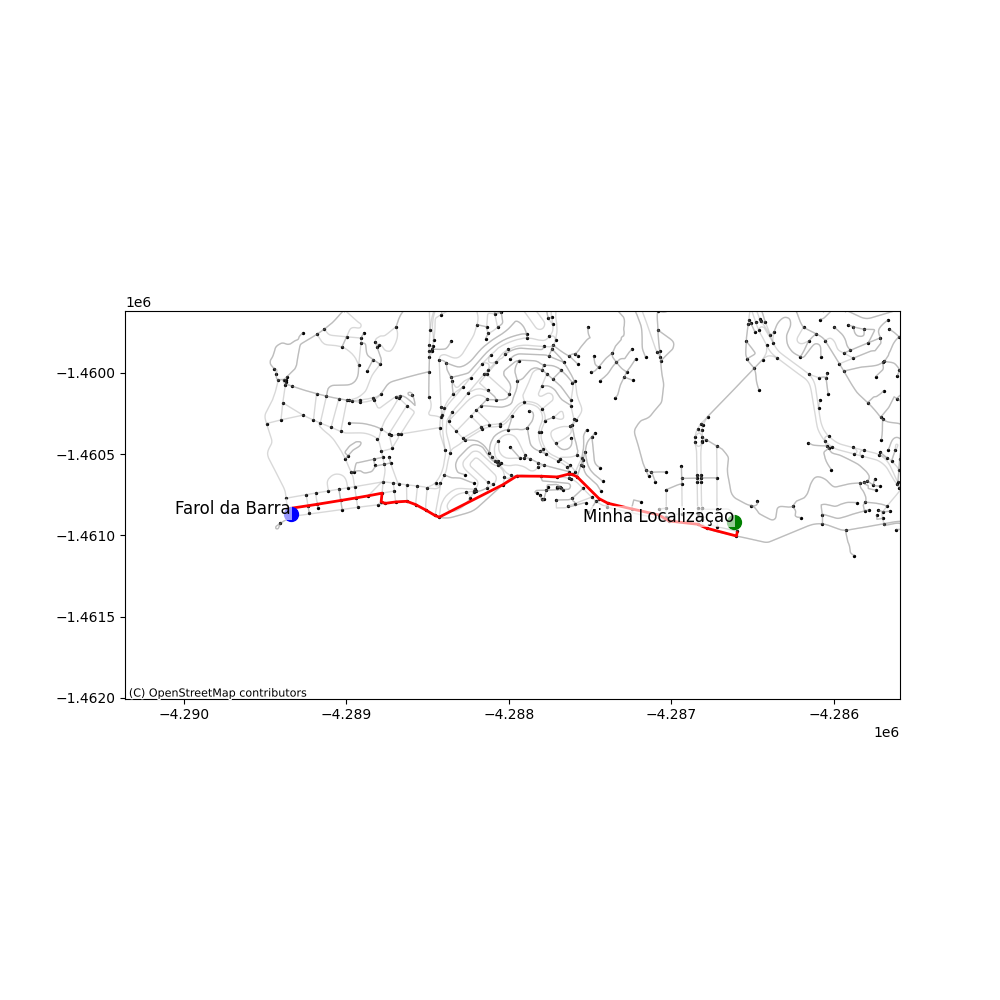
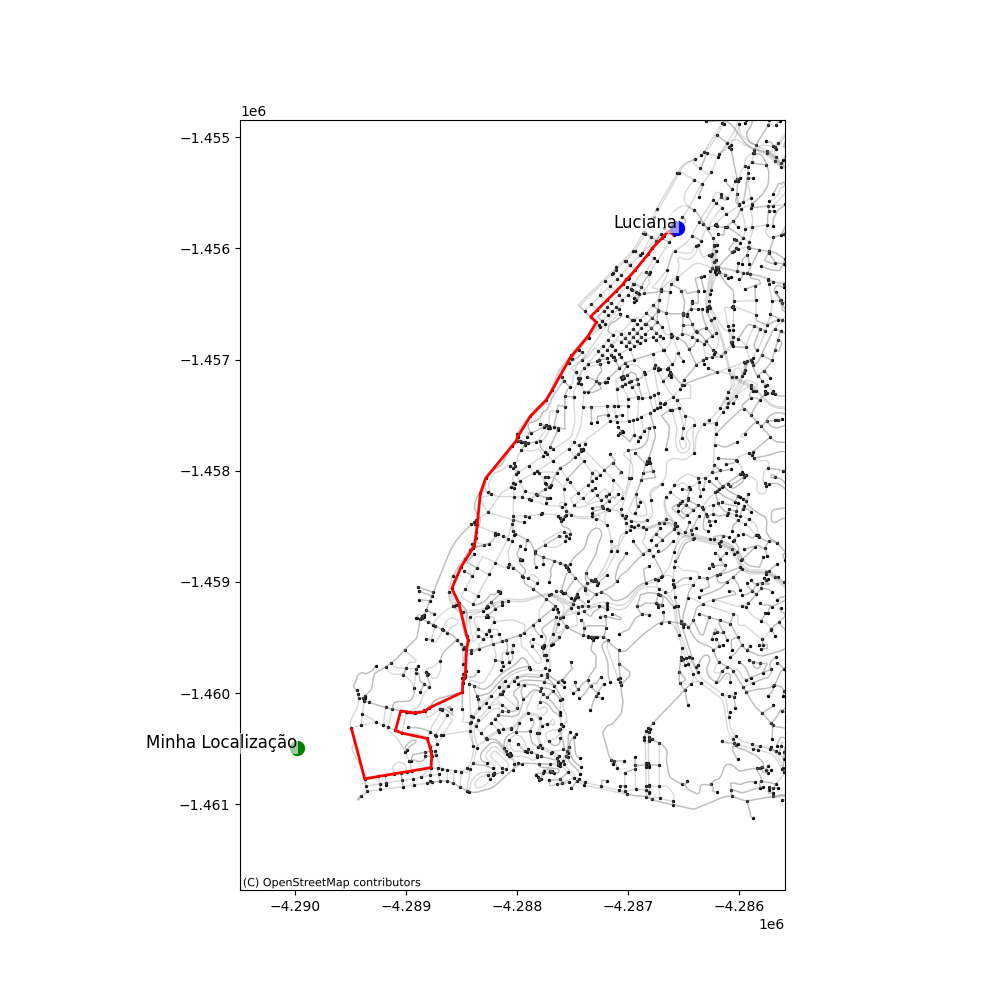
finalizado front utf-8 para ler a base de dados e adionando novos lugares

diff --git a/static/route.html b/static/route.html
@@ -25,7 +25,7 @@
             <meta name="viewport" content="width=device-width,
                 initial-scale=1.0, maximum-scale=1.0, user-scalable=no" />
             <style>
-                #map_7b546648fed7d8b07d06592694b63f66 {
+                #map_785d14b7ab09956c32b021b860f2db24 {
                     position: relative;
                     width: 100.0%;
                     height: 100.0%;
@@ -39,16 +39,16 @@
 <body>
     
     
-            <div class="folium-map" id="map_7b546648fed7d8b07d06592694b63f66" ></div>
+            <div class="folium-map" id="map_785d14b7ab09956c32b021b860f2db24" ></div>
         
 </body>
 <script>
     
     
-            var map_7b546648fed7d8b07d06592694b63f66 = L.map(
-                "map_7b546648fed7d8b07d06592694b63f66",
+            var map_785d14b7ab09956c32b021b860f2db24 = L.map(
+                "map_785d14b7ab09956c32b021b860f2db24",
                 {
-                    center: [-13.0103526, -38.5073181],
+                    center: [-13.0066948, -38.5375255],
                     crs: L.CRS.EPSG3857,
                     zoom: 12,
                     zoomControl: true,
@@ -60,50 +60,50 @@
 
         
     
-            var tile_layer_f1c123ab9e49d13abd9087b36a7ef3e3 = L.tileLayer(
+            var tile_layer_8d860dba2d3259593d63ff4aba459e45 = L.tileLayer(
                 "https://tile.openstreetmap.org/{z}/{x}/{y}.png",
                 {"attribution": "\u0026copy; \u003ca href=\"https://www.openstreetmap.org/copyright\"\u003eOpenStreetMap\u003c/a\u003e contributors", "detectRetina": false, "maxNativeZoom": 19, "maxZoom": 19, "minZoom": 0, "noWrap": false, "opacity": 1, "subdomains": "abc", "tms": false}
             );
         
     
-            tile_layer_f1c123ab9e49d13abd9087b36a7ef3e3.addTo(map_7b546648fed7d8b07d06592694b63f66);
+            tile_layer_8d860dba2d3259593d63ff4aba459e45.addTo(map_785d14b7ab09956c32b021b860f2db24);
         
     
 
-        function geo_json_5b722184074617de9b78103dd1df0f52_onEachFeature(feature, layer) {
+        function geo_json_cc769aa06131c84fc13a0934c8783cfa_onEachFeature(feature, layer) {
             layer.on({
             });
         };
-        var geo_json_5b722184074617de9b78103dd1df0f52 = L.geoJson(null, {
-                onEachFeature: geo_json_5b722184074617de9b78103dd1df0f52_onEachFeature,
+        var geo_json_cc769aa06131c84fc13a0934c8783cfa = L.geoJson(null, {
+                onEachFeature: geo_json_cc769aa06131c84fc13a0934c8783cfa_onEachFeature,
             
         });
 
-        function geo_json_5b722184074617de9b78103dd1df0f52_add (data) {
-            geo_json_5b722184074617de9b78103dd1df0f52
+        function geo_json_cc769aa06131c84fc13a0934c8783cfa_add (data) {
+            geo_json_cc769aa06131c84fc13a0934c8783cfa
                 .addData(data);
         }
-            geo_json_5b722184074617de9b78103dd1df0f52_add({"bbox": [-38.5319873, -13.0111329, -38.5071155, -13.0077944], "features": [{"bbox": [-38.5319873, -13.0111329, -38.5071155, -13.0077944], "geometry": {"coordinates": [[-38.5071155, -13.0108806], [-38.5071757, -13.0111329], [-38.5088224, -13.0107124], [-38.5093208, -13.0105001], [-38.5108951, -13.0103252], [-38.5114755, -13.0099949], [-38.5129722, -13.009671], [-38.5142764, -13.0093706], [-38.5147689, -13.0091195], [-38.5159785, -13.0079463], [-38.5162484, -13.0078193], [-38.5164212, -13.0077944], [-38.5170727, -13.0079537], [-38.517958, -13.0079148], [-38.5193191, -13.0079066], [-38.5200815, -13.0083704], [-38.5236038, -13.0101184], [-38.5238352, -13.0100278], [-38.524349, -13.0097336], [-38.5249102, -13.0094395], [-38.5253935, -13.0092645], [-38.5260071, -13.0092997], [-38.5266009, -13.009376], [-38.5268097, -13.0092775], [-38.5267618, -13.0088267], [-38.5275274, -13.0089693], [-38.5281845, -13.0090794], [-38.5290477, -13.0092193], [-38.5303389, -13.0094238], [-38.5308582, -13.0095025], [-38.5319873, -13.0096682], [-38.5318589, -13.0100609]], "type": "LineString"}, "id": "0", "properties": {}, "type": "Feature"}], "type": "FeatureCollection"});
-        geo_json_5b722184074617de9b78103dd1df0f52.setStyle(function(feature) {return feature.properties.style;});
+            geo_json_cc769aa06131c84fc13a0934c8783cfa_add({"bbox": [-38.5331485, -13.0090985, -38.5070875, -12.9659644], "features": [{"bbox": [-38.5331485, -13.0090985, -38.5070875, -12.9659644], "geometry": {"coordinates": [[-38.5331485, -13.0050778], [-38.5320641, -13.0090985], [-38.5309564, -13.0089084], [-38.5304374, -13.0088215], [-38.5297278, -13.0087061], [-38.5291466, -13.008615], [-38.5286605, -13.0085386], [-38.5282802, -13.0084772], [-38.5266986, -13.0082146], [-38.5266448, -13.0072705], [-38.5267238, -13.0068919], [-38.5267939, -13.006568], [-38.5270207, -13.0059193], [-38.5290433, -13.0054994], [-38.5295805, -13.0052823], [-38.5291487, -13.0037405], [-38.5287042, -13.0038162], [-38.5286099, -13.0038299], [-38.5284161, -13.0038599], [-38.5280064, -13.0039202], [-38.5272135, -13.0037875], [-38.5268451, -13.0035033], [-38.5241635, -13.0022812], [-38.5241428, -13.0015161], [-38.5240176, -13.0011871], [-38.523993, -13.0010715], [-38.5239541, -13.0008939], [-38.523913, -13.0005949], [-38.523842, -12.9989338], [-38.5236875, -12.998178], [-38.5238318, -12.9978098], [-38.5244712, -12.9952196], [-38.525016, -12.994098], [-38.5242668, -12.9923988], [-38.5233179, -12.9909284], [-38.5232075, -12.9907689], [-38.5231009, -12.9901332], [-38.5230298, -12.9896229], [-38.5227133, -12.9866108], [-38.5222882, -12.985432], [-38.5201254, -12.9828478], [-38.5197872, -12.9824607], [-38.519706, -12.9821721], [-38.5186741, -12.9805459], [-38.517394, -12.9792638], [-38.5169062, -12.9784575], [-38.5154493, -12.97593], [-38.5140049, -12.9742364], [-38.5133463, -12.9731393], [-38.5138026, -12.9727038], [-38.5132677, -12.9721752], [-38.5124886, -12.9714122], [-38.5117661, -12.970716], [-38.5111947, -12.9701487], [-38.5109161, -12.9697667], [-38.5107395, -12.9696209], [-38.510219, -12.9690423], [-38.5091578, -12.9677865], [-38.5088052, -12.9672905], [-38.508041, -12.9665237], [-38.5079102, -12.9663761], [-38.5075092, -12.9659644], [-38.5070875, -12.9662519]], "type": "LineString"}, "id": "0", "properties": {}, "type": "Feature"}], "type": "FeatureCollection"});
+        geo_json_cc769aa06131c84fc13a0934c8783cfa.setStyle(function(feature) {return feature.properties.style;});
 
         
     
-            geo_json_5b722184074617de9b78103dd1df0f52.addTo(map_7b546648fed7d8b07d06592694b63f66);
+            geo_json_cc769aa06131c84fc13a0934c8783cfa.addTo(map_785d14b7ab09956c32b021b860f2db24);
         
     
-            var marker_3e0d5aeb487a01c93f702c23aded15c2 = L.marker(
-                [-13.0103526, -38.5073181],
+            var marker_689bb8f4c4627fd2a39866792d421944 = L.marker(
+                [-13.0066948, -38.5375255],
                 {}
-            ).addTo(map_7b546648fed7d8b07d06592694b63f66);
+            ).addTo(map_785d14b7ab09956c32b021b860f2db24);
         
     
-            var icon_74da9d5eeadb6ff7fdf495b2d0a8a065 = L.AwesomeMarkers.icon(
+            var icon_8957aabc7ab38c805f7e98acfcf9a19b = L.AwesomeMarkers.icon(
                 {"extraClasses": "fa-rotate-0", "icon": "info-sign", "iconColor": "white", "markerColor": "green", "prefix": "glyphicon"}
             );
-            marker_3e0d5aeb487a01c93f702c23aded15c2.setIcon(icon_74da9d5eeadb6ff7fdf495b2d0a8a065);
+            marker_689bb8f4c4627fd2a39866792d421944.setIcon(icon_8957aabc7ab38c805f7e98acfcf9a19b);
         
     
-            marker_3e0d5aeb487a01c93f702c23aded15c2.bindTooltip(
+            marker_689bb8f4c4627fd2a39866792d421944.bindTooltip(
                 `<div>
                      Minha Localização
                  </div>`,
@@ -111,21 +111,21 @@
             );
         
     
-            var marker_6457dd87b8522166bca529fa22787b61 = L.marker(
-                [-13.009963388607554, -38.531819032750604],
+            var marker_aa24316f755f4576255ea95255393138 = L.marker(
+                [-12.9657, -38.5068],
                 {}
-            ).addTo(map_7b546648fed7d8b07d06592694b63f66);
+            ).addTo(map_785d14b7ab09956c32b021b860f2db24);
         
     
-            var icon_46a7b293eb82b65109d8941ad1a45f9d = L.AwesomeMarkers.icon(
+            var icon_98ef673c00cc934091514a01aee878ee = L.AwesomeMarkers.icon(
                 {"extraClasses": "fa-rotate-0", "icon": "info-sign", "iconColor": "white", "markerColor": "blue", "prefix": "glyphicon"}
             );
-            marker_6457dd87b8522166bca529fa22787b61.setIcon(icon_46a7b293eb82b65109d8941ad1a45f9d);
+            marker_aa24316f755f4576255ea95255393138.setIcon(icon_98ef673c00cc934091514a01aee878ee);
         
     
-            marker_6457dd87b8522166bca529fa22787b61.bindTooltip(
+            marker_aa24316f755f4576255ea95255393138.bindTooltip(
                 `<div>
-                     Farol da Barra
+                     Luciana
                  </div>`,
                 {"sticky": true}
             );

diff --git a/templates/index.html b/templates/index.html
@@ -1,13 +1,127 @@
 <!DOCTYPE html>
-<html lang="en">
+<html lang="pt-BR">
   <head>
     <meta charset="UTF-8" />
     <meta name="viewport" content="width=device-width, initial-scale=1.0" />
     <title>Shortest Path Finder</title>
     <script src="https://unpkg.com/htmx.org@1.5.0/dist/htmx.min.js"></script>
   </head>
+
+  <style>
+    body {
+      font-family: Arial, sans-serif;
+      margin: 0;
+      padding: 0;
+    }
+
+    h1 {
+      text-align: center;
+    }
+
+    form {
+      display: flex;
+      flex-direction: column;
+      align-items: center;
+      margin: 0 auto;
+      width: 50%;
+    }
+
+    label {
+      margin-top: 1rem;
+    }
+
+    input,
+    select,
+    button {
+      margin-top: 0.5rem;
+      padding: 0.5rem;
+      width: 100%;
+      box-sizing: border-box;
+    }
+
+    button {
+      background-color: #4caf50;
+      color: white;
+      border: none;
+      cursor: pointer;
+    }
+
+    button:hover {
+      background-color: #45a049;
+    }
+
+    img {
+      margin-top: 1rem;
+      width: 50%;
+    }
+
+    a {
+      display: block;
+      margin-top: 1rem;
+    }
+
+    #result {
+      display: flex;
+      flex-direction: column;
+      align-items: center;
+    }
+
+    .head_result {
+      margin-bottom: -20px; /* Reduz a margem abaixo do título */
+    }
+
+    .imagems_resultado {
+      display: flex;
+      flex-direction: row;
+      align-items: center;
+      justify-content: center;
+      gap: 10px; /* Espaço entre a imagem e o iframe */
+    }
+
+    .imagems_resultado img,
+    .imagems_resultado iframe {
+      max-width: 100%;
+    }
+
+    .loading-overlay {
+      position: fixed;
+      top: 0;
+      left: 0;
+      width: 100%;
+      height: 100%;
+      background: rgba(255, 255, 255, 0.8);
+      display: flex;
+      justify-content: center;
+      align-items: center;
+      z-index: 9999;
+      display: none; /* Oculto por padrão */
+    }
+
+    .loading-overlay.active {
+      display: flex; /* Mostra o indicador de carregamento quando ativo */
+    }
+
+    .loader {
+      border: 16px solid #f3f3f3;
+      border-radius: 50%;
+      border-top: 16px solid #3498db;
+      width: 120px;
+      height: 120px;
+      animation: spin 2s linear infinite;
+    }
+
+    @keyframes spin {
+      0% {
+        transform: rotate(0deg);
+      }
+      100% {
+        transform: rotate(360deg);
+      }
+    }
+  </style>
+
   <body>
-    <h1>Find the Shortest Path</h1>
+    <h1>Encontre o caminho mais curto</h1>
 
     <!-- Form to select a friend or place -->
     <form
@@ -16,24 +130,36 @@
       hx-target="#result"
       hx-swap="innerHTML"
     >
-      <label for="latitude">Your Latitude:</label>
-      <input type="text" id="latitude" name="latitude" required readonly />
-      <label for="longitude">Your Longitude:</label>
-      <input type="text" id="longitude" name="longitude" required readonly />
+      <label for="latitude">Sua latitude:</label>
+      <input type="text" id="latitude" name="latitude" required />
+      <label for="longitude">Sua longitude:</label>
+      <input type="text" id="longitude" name="longitude" required />
 
-      <label for="destination">Select a Destination:</label>
+      <label for="destination"
+        >Selecione um destino (amigo ou ponto turistico):</label
+      >
       <select id="destination" name="destination" required>
-        <option value="" disabled selected>Select your option</option>
-        <!-- Options will be populated dynamically -->
+        <option value="" disabled selected>Opções</option>
       </select>
 
-      <button type="submit">Find Path</button>
+      <button type="submit">Encontrar rota</button>
     </form>
 
+    <div class="loading-overlay" id="loading-overlay">
+      <div class="loader"></div>
+    </div>
+
     <div id="result">
-      <h1>Resultado</h1>
-      <img src="../static/route.png" alt="" />
-      <a href="../static/route.html">Clique aqui para ir para a outra página</a>
+      <h1 class="head_result">Resultado</h1>
+      <div class="imagems_resultado">
+        <img src="../static/route.png" alt="" />
+        <iframe
+          src="../static/route.html"
+          width="400"
+          height="300"
+          style="border: 1px solid black"
+        ></iframe>
+      </div>
     </div>
 
     <script>
@@ -85,6 +211,24 @@
           .catch((error) => {
             console.error("Error fetching places:", error);
           });
+      });
+      document.addEventListener("DOMContentLoaded", function () {
+        const form = document.getElementById("shortest-path-form");
+        const loadingOverlay = document.getElementById("loading-overlay");
+
+        // Mostrar o overlay de carregamento quando o formulário é enviado
+        form.addEventListener("submit", function () {
+          loadingOverlay.classList.add("active");
+        });
+
+        // Usar eventos do htmx para controlar o overlay de carregamento
+        document.body.addEventListener("htmx:beforeRequest", function () {
+          loadingOverlay.classList.add("active");
+        });
+
+        document.body.addEventListener("htmx:afterRequest", function () {
+          loadingOverlay.classList.remove("active");
+        });
       });
     </script>
   </body>

diff --git a/app.py b/app.py
@@ -28,7 +28,7 @@ app.add_middleware(
 )
 
 # Carregar dados de amigos e locais de um arquivo JSON
-with open('database.json', 'r') as f:
+with open('database.json', 'r', encoding='utf-8') as f:
     data = json.load(f)
     friends = data["friends"]
     places_salvador = data["places_salvador"]
